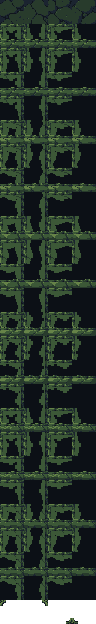
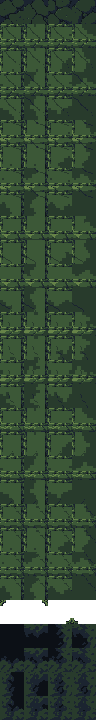
Give walls broader surfaces and connected shadow transitions
Widen exposed wall texture from nine to eighteen native pixels over a full shaded body. Add directional stone and earth bands that follow nearby openings before reaching the shared black core, with native cluster cleanup to remove sampling speckle. Preserve material joins, perspective, sprite/theme gates, collision maps and Defend.

Update render.golden.json and render-calls.golden.json for 20 intended interior sprite frames; 85 other frames, all 84 base floors and shared floor/mask/core assets are unchanged. Production build, final PNG/browser checks and 1197 non-Defend tests pass (one CI-only skip).

diff --git a/tests/dungeon-sprites.test.ts b/tests/dungeon-sprites.test.ts
@@ -2,7 +2,7 @@ import assert from "node:assert/strict";
 import { readFileSync } from "node:fs";
 import test from "node:test";
 import { DUNGEON_ATLASES, DUNGEON_EDGE_ATLAS, DUNGEON_BLEND_ATLAS, DUNGEON_INFILL_ATLAS, DUNGEON_CORNER_FRAME, drawDungeonGround, dungeonAtlasId, dungeonDiagonals, dungeonFloorFrame, dungeonMaterial, dungeonMaterialJoins, dungeonWallVariant } from "../src/sprite-dungeon.ts";
-import { dungeonWallDepth } from "../src/wall-depth.ts";
+import { dungeonWallDepth, dungeonWallProfile } from "../src/wall-depth.ts";
 import { paintTile, type BoardLook } from "../src/tile-painters.ts";
 import { WaterReflections, type ReflectionScene } from "../src/decor-reflections.ts";
 import type { TileDecor } from "../src/decor.ts";
@@ -12,7 +12,7 @@ test("interior PNGs contain native 24-pixel floors, all sixteen wall joins and s
   assert.equal(DUNGEON_ATLASES.length, 21);
   for (const id of [...DUNGEON_ATLASES, DUNGEON_EDGE_ATLAS, DUNGEON_BLEND_ATLAS, DUNGEON_INFILL_ATLAS]) {
     const bytes = readFileSync(new URL(`../public/assets/style/${id}.png`, import.meta.url));
-    const height = id === DUNGEON_EDGE_ATLAS ? 216 : id === DUNGEON_BLEND_ATLAS ? 480 : id === DUNGEON_INFILL_ATLAS ? 96 : 624;
+    const height = id === DUNGEON_EDGE_ATLAS ? 216 : id === DUNGEON_BLEND_ATLAS ? 480 : id === DUNGEON_INFILL_ATLAS ? 96 : 720;
     assert.deepEqual([bytes.readUInt32BE(16), bytes.readUInt32BE(20)], [96, height], id);
     assert.equal(manifest.assets[id].tile, true);
   }
@@ -29,6 +29,12 @@ test("wall depth follows real air across materials, including diagonals, while m
     assert.equal(dungeonWallDepth(world, 3, 3), 2);
   }
   assert.equal(dungeonWallDepth({ tile: () => undefined }, 0, 0), 2, "world bounds do not create a false bright edge");
+  const world = { tile: (x: number, y: number) => ({ kind: x === 0 && y === 0 ? "floor" as const : "wall" as const }) };
+  assert.deepEqual(dungeonWallProfile(world, 0, 2), { depth: 1, paddingMask: 4 }, "shade attaches toward the opening to the south");
+  assert.deepEqual(dungeonWallProfile(world, 2, 0), { depth: 1, paddingMask: 8 });
+  assert.deepEqual(dungeonWallProfile(world, 2, 2), { depth: 1, paddingMask: 12 }, "diagonal openings join both shadow bands");
+  assert.deepEqual(dungeonWallProfile(world, -2, -2), { depth: 1, paddingMask: 3 });
+  assert.deepEqual(dungeonWallProfile(world, 0, 1), { depth: 0, paddingMask: 0 });
 });
 
 test("Delve stone and earth form repeatable contiguous patches rather than independent tile noise", () => {
@@ -48,7 +54,7 @@ test("Delve stone and earth form repeatable contiguous patches rather than indep
 
 test("all wall connections, material floors and live tile contents use the correct native atlas frame", () => {
   const original = Object.getOwnPropertyDescriptor(globalThis, "Image");
-  class ReadyImage { src = ""; complete = true; naturalWidth = 96; naturalHeight = 624; }
+  class ReadyImage { src = ""; complete = true; naturalWidth = 96; naturalHeight = 720; }
   Object.defineProperty(globalThis, "Image", { configurable: true, value: ReadyImage });
   const draws: (string | number)[][] = [];
   const c = new Proxy({}, { set: () => true, get: (_, name) => name === "drawImage"
@@ -87,7 +93,7 @@ test("wall variation is seeded, diagonal corners read real openings, and corner 
   assert.deepEqual(variants(3), variants(3), "wall art is stable on redraw and reload");
   assert.notDeepEqual(variants(3), variants(4), "different runs vary their wall art");
   const original = Object.getOwnPropertyDescriptor(globalThis, "Image");
-  class ReadyImage { src = ""; complete = true; naturalWidth = 96; naturalHeight = 624; }
+  class ReadyImage { src = ""; complete = true; naturalWidth = 96; naturalHeight = 720; }
   Object.defineProperty(globalThis, "Image", { configurable: true, value: ReadyImage });
   const frames: number[] = [];
   const c = new Proxy({}, { set: () => true, get: (_, name) => name === "drawImage"
@@ -121,8 +127,8 @@ test("wall variation is seeded, diagonal corners read real openings, and corner 
     assert.deepEqual(dungeonMaterialJoins(floor, ["earth", "earth", "earth", "earth"]), { sides: 0, corners: 15 });
     assert.deepEqual(dungeonMaterialJoins({ ...floor, neighbors: { northWall: true, eastWall: true, southWall: true, westWall: true } }, ["earth", "earth", "earth", "earth"]), { sides: 0, corners: 0 }, "soil corners cannot cross a wall");
     for (const depth of [1, 2] as const) {
-      frames.length = 0; drawDungeonGround(c, tile, [], depth);
-      assert.deepEqual(frames, [depth === 2 ? 12 : 0], "padding and core use the shared infill PNG");
+      frames.length = 0; drawDungeonGround(c, tile, [], depth, 4);
+      assert.deepEqual(frames, [depth === 2 ? 12 : 108], "directional material shade precedes the shared black core");
     }
   } finally {
     if (original) Object.defineProperty(globalThis, "Image", original); else Reflect.deleteProperty(globalThis, "Image");

diff --git a/src/sprite-dungeon.ts b/src/sprite-dungeon.ts
@@ -24,6 +24,7 @@ export const DUNGEON_EDGE_ATLAS = "dungeon-edges";
 export const DUNGEON_BLEND_ATLAS = "dungeon-blends";
 export const DUNGEON_INFILL_ATLAS = "dungeon-infill";
 export const DUNGEON_CORE_FRAME = 12;
+export const DUNGEON_PADDING_FRAME = DUNGEON_CORNER_FRAME + 4;
 
 /** Smooth, coordinate-hashed material patches, independent of generation
  * and its random stream. Both wall and floor at a position share material. */
@@ -103,26 +104,23 @@ export function drawDungeonFrame(c: CanvasRenderingContext2D, image: HTMLImageEl
 /** Four quiet floors, six variants of sixteen wall shapes, and corners.
  * South-facing facades occupy eight pixels; north/side lips are shallow.
  * Everything stays inside the existing tile and collision footprint. */
-export function drawDungeonGround(c: CanvasRenderingContext2D, tile: TerrainTile, diagonals: readonly DungeonDiagonal[] = [], depth: DungeonWallDepth = 0) {
+export function drawDungeonGround(c: CanvasRenderingContext2D, tile: TerrainTile, diagonals: readonly DungeonDiagonal[] = [], depth: DungeonWallDepth = 0, paddingMask = 15) {
   const { mode, height, x, y, seed } = tile, tone = themeAt(mode, height, x, y, seed).decor;
   const images = imagesFor(mode, tone);
   if (!images) return false;
   const material = dungeonMaterial(mode, x, y, seed);
   const image = material === "earth" ? images.earth : images.surface;
-  if (tile.wall && depth) {
-    const frame = depth === 2 ? DUNGEON_CORE_FRAME : DUNGEON_MATERIALS.indexOf(material) * 4 + dungeonWallVariant(x, y, seed) % 4;
-    drawDungeonFrame(c, images.infill, frame); return true;
-  }
+  if (tile.wall && depth === 2) { drawDungeonFrame(c, images.infill, DUNGEON_CORE_FRAME); return true; }
   const edges = images.edges;
   const n = tile.neighbors;
   const mask = wallAdjacencyMask({ northWall: !!n?.northWall, eastWall: !!n?.eastWall, southWall: !!n?.southWall, westWall: !!n?.westWall });
-  const frame = tile.wall ? DUNGEON_WALL_FRAME + dungeonWallVariant(x, y, seed) * 16 + mask : dungeonFloorFrame(x, y, seed);
+  const frame = tile.wall ? depth === 1 ? DUNGEON_PADDING_FRAME + paddingMask : DUNGEON_WALL_FRAME + dungeonWallVariant(x, y, seed) * 16 + mask : dungeonFloorFrame(x, y, seed);
   drawDungeonFrame(c, image, frame);
   const joins = dungeonMaterialJoins(tile, diagonals), blendVariant = dungeonWallVariant(x, y, seed) % 4;
   if (joins.sides) drawMaterialBlend(c, images.earth, frame, images.blends, blendVariant * 20 + joins.sides);
   for (let corner = 0; corner < 4; corner++) if (joins.corners & (1 << corner))
     drawMaterialBlend(c, images.earth, frame, images.blends, blendVariant * 20 + 16 + corner);
-  if (tile.wall) {
+  if (tile.wall && !depth) {
     for (let corner = 0; corner < 4; corner++) {
       const diagonal = diagonals[corner];
       // A diagonal opening meets either two joined sides (concave) or two

diff --git a/src/wall-depth.ts b/src/wall-depth.ts
@@ -2,13 +2,21 @@ import type { Tile } from "./entities.ts";
 
 export type DungeonWallDepth = 0 | 1 | 2;
 
-/** All materials form one solid mass. Missing world cells are solid too.
- * The first ring is exposed, the second is sparse padding, the rest black. */
-export function dungeonWallDepth(world: { tile(x: number, y: number): Tile | undefined }, x: number, y: number): DungeonWallDepth {
+/** The shaded band connects to the real opening instead of scattering
+ * isolated fragments. Missing cells and all wall materials stay solid. */
+export function dungeonWallProfile(world: { tile(x: number, y: number): Tile | undefined }, x: number, y: number): { depth: DungeonWallDepth; paddingMask: number } {
+  let paddingMask = 0;
   for (const radius of [1, 2] as const) for (let dy = -radius; dy <= radius; dy++) for (let dx = -radius; dx <= radius; dx++) {
     if (Math.max(Math.abs(dx), Math.abs(dy)) !== radius) continue;
     const tile = world.tile(x + dx, y + dy);
-    if (tile && tile.kind !== "wall") return radius === 1 ? 0 : 1;
+    if (!tile || tile.kind === "wall") continue;
+    if (radius === 1) return { depth: 0, paddingMask: 0 };
+    if (dy === 2) paddingMask |= 1;
+    if (dx === 2) paddingMask |= 2;
+    if (dy === -2) paddingMask |= 4;
+    if (dx === -2) paddingMask |= 8;
   }
-  return 2;
+  return { depth: paddingMask ? 1 : 2, paddingMask };
 }
+
+export const dungeonWallDepth = (world: { tile(x: number, y: number): Tile | undefined }, x: number, y: number) => dungeonWallProfile(world, x, y).depth;

diff --git a/src/tile-painters.ts b/src/tile-painters.ts
@@ -18,7 +18,7 @@ import { COMBAT_MARKS } from "./sprite-combat.ts";
 import { drawKitTerrain } from "./sprite-terrain.ts";
 import { themedTileUrl } from "./themed-tilesets.ts";
 import { drawDungeonGround, dungeonDiagonals } from "./sprite-dungeon.ts";
-import { dungeonWallDepth } from "./wall-depth.ts";
+import { dungeonWallProfile } from "./wall-depth.ts";
 
 // Everything here paints in 24x24 tile space: the caller translates and
 // scales the context to the tile first.
@@ -86,8 +86,10 @@ function paintGround(c: CanvasRenderingContext2D, world: TileWorld, t: Tile, x: 
   };
   const wall = t.kind === "wall";
   const terrain = { mode: look.mode, height: look.height, seed: look.seed, x, y, wall, empty: t.kind === "floor", neighbors };
-  if (look.styledSprites && !look.spritesOff && drawDungeonGround(c, terrain,
-    dungeonDiagonals(world, look.mode, x, y, look.seed), wall ? dungeonWallDepth(world, x, y) : 0)) return true;
+  if (look.styledSprites && !look.spritesOff) {
+    const profile = wall ? dungeonWallProfile(world, x, y) : { depth: 0 as const, paddingMask: 0 };
+    if (drawDungeonGround(c, terrain, dungeonDiagonals(world, look.mode, x, y, look.seed), profile.depth, profile.paddingMask)) return true;
+  }
   // Every biome has a PNG floor/wall set. Images load asynchronously; until
   // ready (or if an asset fails), the procedural renderer remains a complete
   // fallback and the Sprites setting can still opt out of bitmap art.

diff --git a/docs/art/ui-sprites.md b/docs/art/ui-sprites.md
@@ -65,9 +65,9 @@ The forest loads its materials and foliage together before removing the older ba
 The old SVG and PNG artwork stays available for unloaded images, Sprites off and theme overrides.
 Tower interiors use native fitted masonry floors and connected walls; Delve uses rough bedrock and compact earth for both floors and walls, with coordinate-hashed contiguous material patches.
 The [dungeon material source](../../assets/game-sprites/dungeon-materials.png) supplies four floor variations, wall-top variations, south-facing facade strips and coping for each material, plus stepped soil/contact strips.
-Twenty-one 96 × 624 deployed PNG atlases hold four floors, six variations of sixteen wall-neighbor frames and four corner overlays each.
+Twenty-one 96 × 720 deployed PNG atlases hold four floors, six variations of sixteen wall-neighbor frames, four corner overlays and sixteen directional shade joins each.
 One shared 96 × 216 PNG retains sixteen soil borders, sixteen floor-contact masks and four diagonal soil corners.
-Two additional atlases add eighty material masks and sixteen infill/core frames (2,316 native frames total).
+Two additional atlases add eighty material masks and sixteen infill/core frames (2,652 native frames total).
 The [wall variation source](../../assets/game-sprites/dungeon-wall-variations.png) supplies six distinct top/facade pairs per material: broad fitted masonry, continuous bedrock with sparse fractures and layered earth with embedded stones.
 Keep bedrock surfaces continuous and quiet rather than outlining every stone as separate cobbles; top and south-facing facade variations share a seed choice and fixed lighting.
 Exposed wall tops use restricted muted ramps (two slate tones for bedrock, three for masonry/earth), while the south-facing facades keep deeper shading for clear height.
@@ -76,8 +76,11 @@ Corner pieces occupy six native pixels at the corresponding tile corner and reta
 Ten palette ramps retain each masonry and rock biome's identity, while earth keeps its brown ramp; slate and earth extraction use restricted material palettes to avoid stray green or red noise.
 Use axis-aligned 24-pixel tiles seen at a steep top-down angle, visible wall tops, shallow three-pixel north/side lips and eight-pixel south-facing wall facades; no isometric diamonds or vanishing points.
 Connected walls hide shared edges, and floor centers remain quiet and flat beneath items; soil borders have stepped binary transparency and contact shadows stay inside the floor tile.
-The [material blend source](../../assets/game-sprites/dungeon-material-blends.png) adds sparse dark padding and four stepped transition silhouettes.
-The [Celeste tileset analysis](https://aran.ink/posts/celeste-tilesets) informed the edge/padding/core treatment: material detail hugs exposed surfaces, dark fragments bridge the inward edge, and deep solids share one flat near-black fill.
+The [material blend source](../../assets/game-sprites/dungeon-material-blends.png) supplies the original infill references and four stepped transition silhouettes.
+The [wall shading source](../../assets/game-sprites/dungeon-wall-shading.png) adds connected north/east/south/west shadow bands for each material, with fixed lighting and native pixels.
+Native cluster cleanup removes single-pixel sampling speckle before palette remapping; shadow shapes stay broad and connected.
+Wall texture extends up to eighteen pixels inward over a full shaded body, followed by a connected medium-dark band before the flat black core; do not reduce the visible wall to a thin outline.
+The [Celeste tileset analysis](https://aran.ink/posts/celeste-tilesets) informed the edge/padding/core treatment: material detail hugs exposed surfaces, shaded material bridges the inward edge, and deep solids share one flat near-black fill.
 Our original PNGs retain the angled top-down perspective and native 24-pixel grid; wall depth follows actual open tiles across all materials.
 Earth overlaps stone through binary PNG masks on floors and exposed walls, replacing square material seams without blur, dithering or a rim between connected walls.
 The shared core is the existing palette color `#0c1016`, fixed across materials and biome ramps; do not texture deep cores or cover them with moss.
@@ -133,7 +136,7 @@ Run `node --experimental-transform-types tools/prepare-combat-sprites.mjs` for t
 Run `node --experimental-transform-types tools/prepare-board-marks.mjs` for Target, Ignore, skipped and blocked marks.
 Run `node --experimental-transform-types tools/prepare-environment-sprites.mjs` for moss, water, vine leaves, flowers and glowing cap variants.
 Run `node --experimental-transform-types tools/prepare-forest-sprites.mjs` for the twenty forest materials/objects and two enormous entrance bases; measured crops, binary alpha and palette normalization reproduce the deployed PNGs.
-Run `node --experimental-transform-types tools/prepare-dungeon-sprites.mjs` for the interior material atlases, all six connected-wall variants, ragged material masks, dark padding/core, and the cardinal/diagonal corner and contact pieces.
+Run `node --experimental-transform-types tools/prepare-dungeon-sprites.mjs` for the interior material atlases, all six connected-wall variants, directional shaded transitions, ragged material masks, dark core, and the cardinal/diagonal corner and contact pieces.
 Regenerate the original font with `python tools/prepare-pixel-font.py` using FontTools with WOFF2 support (`fonttools[woff]`); no font-building dependency is needed at runtime.
 The full game exporter preserves dungeon, forest, environment, combat, badge, Shrine, Equipment UI and UI-detail assets; rerun their own exporter when a source atlas changes.
 That exporter also packs the terrain atlas and produces `src/sprite-terrain-index.ts`.

diff --git a/docs/agents/rendering.md b/docs/agents/rendering.md
@@ -30,7 +30,7 @@ The active forest draws dynamic back grass, small foliage, crowns, buildings, ro
 Wall foliage remains with decoration off, while optional floor plants and dynamic grass follow that setting.
 Sprites off, board sprites off and other Game themes retain their original forest; UI themes gate the interface independently, and Defend is excluded from this forest extension.
 `sprite-dungeon.ts` supplies dedicated interior PNG materials: fitted Tower masonry and contiguous Delve stone/earth patches, selected with coordinate hashes independent of generation.
-Twenty-one 96 × 624 atlases contain four 24-pixel floor variants, six versions of all sixteen wall-neighbor masks and four native six-pixel corner overlays: ten biome ramps for masonry, ten for rough stone and one brown earth set.
+Twenty-one 96 × 720 atlases contain four 24-pixel floor variants, six versions of all sixteen wall-neighbor masks, four native six-pixel corner overlays and sixteen directional shade joins: ten biome ramps for masonry, ten for rough stone and one brown earth set.
 `dungeonWallVariant` chooses six authored top and south-facing facade pairs by coordinate hash, so long connected walls have seeded variety without rotating their lighting or altering geometry.
 Masonry varies broad fitted blocks and worn joints; bedrock uses continuous quiet planes with sparse fractures, while earth varies compact layers and embedded stone.
 A shared 96 × 216 atlas retains the original contact-shadow masks and soil reference pieces.
@@ -41,10 +41,14 @@ Masked material bakes are cached with a 512-entry limit; no gradients, soft alph
 Wall corners draw only where a diagonal opening meets two joined or two exposed sides; straight edges and missing diagonal terrain retain their existing lips.
 Diagonal material patches draw where earth touches stone at a corner without an existing cardinal blend or a change between open floor and blocking wall.
 Walls expose shallow three-pixel north/side lips and eight-pixel south-facing facades, keeping a steep top-down angle inside the existing collision tile; joined sides have no facade.
-The authored fringe masks also break up the inward boundary of exposed wall strips against a common near-black fill.
-`wall-depth.ts` checks two Chebyshev rings of actual world tiles: neighboring air exposes the wall, air two tiles away selects sparse dark padding, and farther interiors use a flat shared near-black PNG.
+Exposed wall texture reaches up to eighteen pixels into its tile over a full shaded material body, with stepped inward contours.
+The shadow body continues beyond the bright rim, so thin walls remain solid and wider walls recede through a fuller intermediate shade before black.
+`wall-depth.ts` checks two Chebyshev rings of actual world tiles: neighboring air exposes the wall, air two tiles away selects directional shaded material, and farther interiors use a flat shared near-black PNG.
+`dungeonWallProfile` supplies the north/east/south/west mask of those second-ring openings; diagonal air combines both bands and missing cells never create a false edge.
 Every material counts as connected solid, missing cells remain solid, and doors/items/stairs count as air; generation and collision are unchanged.
-`dungeon-infill.png` holds three sparse padding variations plus one empty choice per material and a common core (96 × 96); no biome tint changes the shared core.
+Each material atlas appends sixteen shade masks at `DUNGEON_PADDING_FRAME`, assembled from four separately lit directional PNGs and tinted with its biome ramp.
+Material blending continues through the shaded band as well as exposed wall tops.
+`dungeon-infill.png` retains the common core and earlier sparse reference pieces (96 × 96); the deep core stays flat and is never biome-tinted.
 The styled decor bake skips core walls so moss cannot repaint their flat interiors; Sprites off and other Game themes retain their original decor.
 `paintGround` returns after drawing these native tiles, so old procedural quoins cannot add off-palette corners over the new walls.
 Each material group loads completely before replacing the fallback, and `spriteRevision` refreshes the ground cache as its PNGs arrive.
@@ -54,7 +58,8 @@ The water mirror receives the effective board-art key too, refreshing cached wal
 `tools/prepare-dungeon-sprites.mjs` extracts the material components, assembles connected walls and edge masks, and maps all twenty biome variations into the existing palette, without changing the older atlas or Defend.
 Its corner components come from `assets/game-sprites/dungeon-corners.png`, sharing the existing native grid, upper-left light and restricted material ramps.
 Its six top/facade pairs per material come from `assets/game-sprites/dungeon-wall-variations.png`; floor, coping and corner components retain their existing sources.
-The dark infill and stepped blend masks come from `assets/game-sprites/dungeon-material-blends.png`.
+The shared core and stepped blend masks come from `assets/game-sprites/dungeon-material-blends.png`.
+The fuller, connected shade bands come from `assets/game-sprites/dungeon-wall-shading.png`, with fixed upper-left light in each authored direction.
 
 Board drawing (`Renderer`, frames, lighting, decor, popups, tile caches, the forest outside, weather), the render goldens, and the Medieval and Neon themes.
 

diff --git a/docs/agents/testing.md b/docs/agents/testing.md
@@ -49,6 +49,6 @@ The appended `spriteForestTower` and `spriteForestDelve` scenes add ten browser 
 `tests/dungeon-sprites-browser.mjs` starts its own server for literal floor/relief PNG texels, transparent transition centers, native atlases, delayed/failed material loads and real Tower/Delve interiors at phone/desktop widths.
 It changes sprite, board, decoration and independent theme settings on a reused Renderer, verifies exact legacy-pixel restoration and checks that drawing never changes tiles; its monotonically advancing warmup settles the Delve camera and older image caches before comparing frames.
 `tests/dungeon-sprites.test.ts` checks atlas dimensions, contiguous stone/earth patches and all sixteen native wall-frame selections across six seeded variants, including the floor under items and doors.
-It also checks seeded wall variation, two-ring wall depth, diagonal opening queries, convex/concave corner eligibility, straight-side and world-edge exclusions, and material patches staying out of blocking walls.
-The browser suite checks six distinct exposed north rims and south-facing facades, flat shared black cores, sparse dark padding, literal masked material texels, clear blend centers and six-pixel corner bounds, then reviews the expanded native sheets.
+It also checks seeded wall variation, two-ring wall depth and directional opening masks, diagonal opening queries, convex/concave corner eligibility, straight-side and world-edge exclusions, and material patches staying out of blocking walls.
+The browser suite checks six distinct exposed north rims and south-facing facades, flat shared black cores, broad shaded wall bodies and directional shade receding toward black, literal masked material texels, clear blend centers and six-pixel corner bounds, then reviews the expanded native sheets.
 The appended `spriteDungeonMasonry` and `spriteDungeonCave` golden scenes cover real interior layouts; the existing `spriteCombat` and `spriteEnvironment` frames change only for the intended new ground/relief.

diff --git a/docs/gameplay/first-steps.md b/docs/gameplay/first-steps.md
@@ -20,7 +20,7 @@ Inside the Tower, the Classic sprite kit uses fitted stone floors and joined mas
 In the Delve, rough stone and packed earth form adjoining patches of floors and walls, with stepped soil edges and matching biome colors.
 Walls have six variations of their tops and south-facing faces, with fitted masonry, broad fractured bedrock or packed earth, plus matching diagonal corner pieces.
 Earth and stone interlock at their edges and diagonal joins on both floors and exposed walls.
-Wall detail stays near open ground, then recedes through sparse dark fragments into a shared black interior deeper inside solid terrain.
+Walls keep a broad textured edge and a full shaded body, then a connected band of darker stone or earth recedes into the shared black interior.
 These interior tiles remain with environmental decoration off; torchlight follows the selected floor's seams, and movement, doors and map layouts stay the same.
 
 ## The first runs
